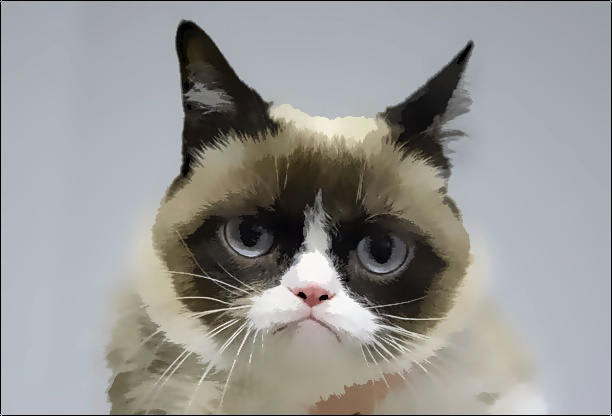
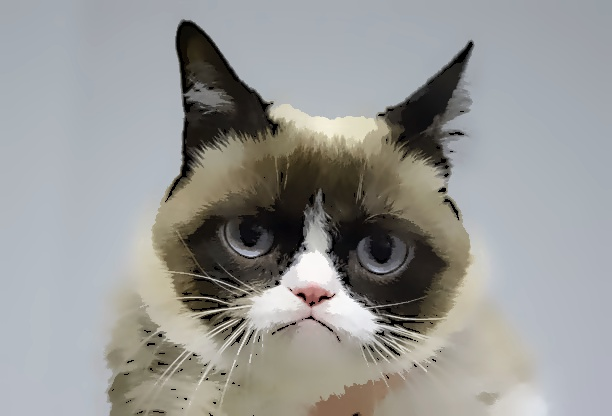
Simplify implementation

diff --git a/src/main.rs b/src/main.rs
@@ -3,63 +3,90 @@ use opencv::highgui::{imshow, wait_key};
 use opencv::imgcodecs::{imread, imwrite, IMREAD_COLOR};
 use opencv::imgproc::{
     adaptive_threshold, cvt_color, dilate, get_structuring_element, pyr_mean_shift_filtering,
-    COLOR_BGR2Lab, COLOR_Lab2BGR, ADAPTIVE_THRESH_GAUSSIAN_C, ADAPTIVE_THRESH_MEAN_C, MORPH_RECT,
-    THRESH_BINARY,
+    COLOR_BGR2Lab, COLOR_Lab2BGR, ADAPTIVE_THRESH_MEAN_C, MORPH_RECT, THRESH_BINARY,
 };
 use opencv::prelude::*;
 use opencv::ximgproc::anisotropic_diffusion;
 use std::error::Error;
 
+struct Lab(Mat);
+struct Gray(Mat);
+
 fn main() -> Result<(), Box<dyn Error>> {
     let image = imread("grumpy-cat.jpg", IMREAD_COLOR)?;
 
-    let lab_image = to_lab(&image)?;
+    let lab_image = bgr_to_lab(image)?;
     let image_blurred = anisotropic_blur(&lab_image)?;
     let gray = gray_from_lab(&image_blurred)?;
-    let image = segment_colors(&lab_image)?;
-    imshow("segmented_image (BGR)", &image)?;
-
+    let segmented_image = segment_colors(&lab_image)?;
+    let image = lab_to_bgr(segmented_image)?;
     let dilated_edges = get_edges(gray)?;
-    imshow("dilated_edges", &dilated_edges)?;
-
-    let scalar = Scalar::from((240.0, 240.0, 240.0, 0.0));
-    let mut reduced = Mat::default();
-    bitwise_and(&image, &scalar, &mut reduced, &Mat::default())?;
-
-    let mut cartoon = Mat::default();
-    bitwise_and(&image, &image, &mut cartoon, &dilated_edges)?;
-
-    imwrite("output.jpg", &cartoon, &Vector::default())?;
+    let cartoon = combine_image_and_edges(image, dilated_edges)?;
 
     imshow("Cartoon", &cartoon)?;
+    imwrite("output.jpg", &cartoon, &Vector::default())?;
 
     wait_key(0)?;
-
     Ok(())
 }
 
-fn anisotropic_blur(lab_image: &Mat) -> Result<Mat, Box<dyn Error>> {
-    let mut image_blurred = Mat::default();
-    let conductance = 0.1;
-    let time_step = 0.1;
-    let num_iterations = 10;
-    anisotropic_diffusion(
-        &lab_image,
-        &mut image_blurred,
-        time_step,
-        conductance,
-        num_iterations,
-    )?;
-    Ok(image_blurred)
-}
-
-fn to_lab(image: &Mat) -> Result<Mat, Box<dyn Error>> {
+/// Converts the BGR image to Lab.
+fn bgr_to_lab(image: Mat) -> Result<Lab, Box<dyn Error>> {
     let mut lab_image = Mat::default();
     cvt_color(&image, &mut lab_image, COLOR_BGR2Lab, 0)?;
-    Ok(lab_image)
+    Ok(Lab(lab_image))
 }
 
-fn segment_colors(lab_image: &Mat) -> Result<Mat, Box<dyn Error>> {
+/// Converts an Lab image back to BGR color space.
+fn lab_to_bgr(Lab(image): Lab) -> Result<Mat, Box<dyn Error>> {
+    let mut bgr = Mat::default();
+    cvt_color(&image, &mut bgr, COLOR_Lab2BGR, 0)?;
+    Ok(bgr)
+}
+
+/// Extracts the lightness channel from the Lab image.
+fn gray_from_lab(Lab(image_blurred): &Lab) -> Result<Gray, Box<dyn Error>> {
+    let mut channels = Vector::<Mat>::new();
+    split(&image_blurred, &mut channels)?;
+
+    // Extract the L channel (index 0) from the Lab image
+    let gray = channels.get(0)?.clone();
+    Ok(Gray(gray))
+}
+
+/// Obtains edges from the specified grayscale image.
+fn get_edges(Gray(gray): Gray) -> Result<Gray, Box<dyn Error>> {
+    let max_binary_value = 255.0;
+    let mut edges = Mat::default();
+    adaptive_threshold(
+        &gray,
+        &mut edges,
+        max_binary_value,
+        ADAPTIVE_THRESH_MEAN_C,
+        THRESH_BINARY,
+        9,
+        9.0,
+    )?;
+
+    // Dilate the edges, i.e. make them less prominent.
+    let mut dilated_edges = Mat::default();
+    let kernel = get_structuring_element(MORPH_RECT, Size::new(3, 3), Point::new(-1, -1))?;
+    let anchor = Point::new(-1, -1);
+    let iterations = 1;
+    dilate(
+        &edges,
+        &mut dilated_edges,
+        &kernel,
+        anchor,
+        iterations,
+        BORDER_REFLECT,
+        Scalar::default(),
+    )?;
+    Ok(Gray(dilated_edges))
+}
+
+/// Segments the colors of an Lab image.
+fn segment_colors(Lab(lab_image): &Lab) -> Result<Lab, Box<dyn Error>> {
     let spatial_radius = 10.0;
     let color_radius = 20.0;
     let max_pyramid_level = 1;
@@ -74,45 +101,28 @@ fn segment_colors(lab_image: &Mat) -> Result<Mat, Box<dyn Error>> {
         term_criteria,
     )?;
 
-    let mut image = Mat::default();
-    cvt_color(&segmented_image, &mut image, COLOR_Lab2BGR, 0)?;
-    Ok(image)
+    Ok(Lab(segmented_image))
 }
 
-fn get_edges(gray: Mat) -> Result<Mat, Box<dyn Error>> {
-    let max_binary_value = 255.0;
-    let mut edges = Mat::default();
-    adaptive_threshold(
-        &gray,
-        &mut edges,
-        max_binary_value,
-        ADAPTIVE_THRESH_MEAN_C,
-        THRESH_BINARY,
-        9,
-        9.0,
+/// Applies anisotropic blurring to an Lab image.
+fn anisotropic_blur(Lab(lab_image): &Lab) -> Result<Lab, Box<dyn Error>> {
+    let mut image_blurred = Mat::default();
+    let conductance = 0.1;
+    let time_step = 0.05;
+    let num_iterations = 10;
+    anisotropic_diffusion(
+        &lab_image,
+        &mut image_blurred,
+        time_step,
+        conductance,
+        num_iterations,
     )?;
-
-    let mut dilated_edges = Mat::default();
-    let kernel = get_structuring_element(MORPH_RECT, Size::new(3, 3), Point::new(-1, -1))?;
-    let anchor = Point::new(-1, -1);
-    let iterations = 1;
-    dilate(
-        &edges,
-        &mut dilated_edges,
-        &kernel,
-        anchor,
-        iterations,
-        BORDER_REFLECT,
-        Scalar::default(),
-    )?;
-    Ok(dilated_edges)
+    Ok(Lab(image_blurred))
 }
 
-fn gray_from_lab(image_blurred: &Mat) -> Result<Mat, Box<dyn Error>> {
-    let mut channels = Vector::<Mat>::new();
-    split(&image_blurred, &mut channels)?;
-
-    // Extract the L channel (index 0) from the Lab image
-    let gray = channels.get(0)?.clone();
-    Ok(gray)
+/// Applies the detected edges as brush strokes to the provided image.
+fn combine_image_and_edges(image: Mat, Gray(dilated_edges): Gray) -> Result<Mat, Box<dyn Error>> {
+    let mut cartoon = Mat::default();
+    bitwise_and(&image, &image, &mut cartoon, &dilated_edges)?;
+    Ok(cartoon)
 }
